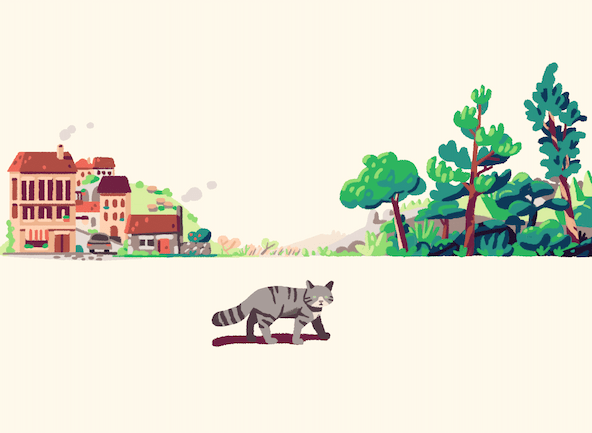
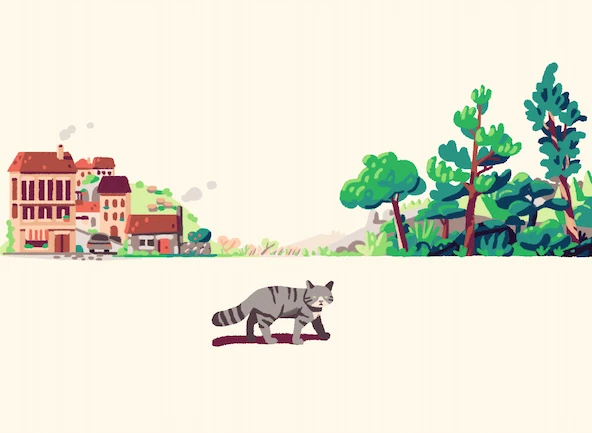
Adjusted responsive image on wildcat page with width descriptors

diff --git a/wildcat.html b/wildcat.html
@@ -4,29 +4,39 @@
     <meta charset="UTF-8">
     <meta name="viewport" content="width=device-width, initial-scale=1.0">
     <title>Wildcat illustration – Diogo Matias</title>
-    <meta name="author" content="Diogo Matias">
+    <meta name="description" content="An illustration of a wildcat for my brother’s thesis defense.">
     <meta name="color-scheme" content="dark light">
     <link rel="stylesheet" href="styles/main.css">
   </head>
   <body>
-    <article>
-      <h1>A wildcat for a thesis dissertation	</h1>
-      <p>
-      Illustrated on <time datetime="2020-12-07">7 December 2020</time></p>
-      <p>
-      My brother is a conservation biologist studying <a href="https://doi.org/10.1002/1438-390X.12088">endangered carnivore populations in Portugal</a>. For his thesis defense, he asked me to draw the possible habitat distribution of the <a href="https://en.wikipedia.org/wiki/European_wildcat">European wildcat</a>—one of his favourite felids.</p>
-      <img
-        src="images/ilustracao-gato_bravo-592.webp"
-        alt="A wildcat walking through a transition from urban to rural to forest"
-        width="592"
-        height="433"
-        srcset="images/ilustracao-gato_bravo-888.webp 2x,
-                images/ilustracao-gato_bravo-1775.webp 3x"
-                >
-      <p>
-      These cats look a lot like feral cats but are on average bigger and stouter, with longer fur and bushier tails. They also have distinct striped patterns. Because they can mate with domestic cats and have hybrid kitties, sightings or captures usually need genetic testing to distinguish them.</p>
-      <p>
-      Interbreeding, loss of habitat, and shootings, have made European wildcats harder to spot. I hope this illustration helps introduce more people to these furry fellows and some of the conservation efforts trying to protect them.</p>
-    </article>
+    <main>
+      <article>
+        <h1>
+        A wildcat for a thesis dissertation
+        </h1>
+        <p>
+        Illustrated on <time datetime="2020-12-07">7 December 2020</time></p>
+        <p>
+        My brother is a conservation biologist studying <a href="https://doi.org/10.1002/1438-390X.12088">endangered carnivore populations in Portugal</a>. For his thesis defense, he asked me to draw the possible habitat distribution of the <a href="https://en.wikipedia.org/wiki/European_wildcat">European wildcat</a>—one of his favourite felids.
+        </p>
+        <img
+          src="images/ilustracao-gato_bravo-888.jpg"
+          alt="A wildcat walking through a transition from urban to rural to forest"
+          width="888"
+          height="650"
+          srcset="images/ilustracao-gato_bravo-444.webp 444w,
+                  images/ilustracao-gato_bravo-592.webp 592w,
+                  images/ilustracao-gato_bravo-888.webp 888w,
+                  images/ilustracao-gato_bravo-1775.webp 1775w"
+          sizes="(max-width: 50em) 100vw, 60em"
+        >
+        <p>
+        These cats look a lot like feral cats but are on average bigger and stouter, with longer fur and bushier tails. They also have distinct striped patterns. Because they can mate with domestic cats and have hybrid kitties, sightings or captures usually need genetic testing to distinguish them.
+        </p>
+        <p>
+        Interbreeding, loss of habitat, and shootings, have made European wildcats harder to spot. I hope this illustration helps introduce more people to these furry fellows and some of the conservation efforts trying to protect them.
+        </p>
+      </article>
+    </main> 
   </body>
 </html>

diff --git a/index.html b/index.html
@@ -5,7 +5,6 @@
 		<meta charset="UTF-8">
 		<meta name="viewport" content="width=device-width, initial-scale=1.0">
 		<title>Home page of Diogo</title>
-		<meta name="author" content="Diogo Matias">
 		<meta name="description" content="A personal website about visual design and illustration.">
 		<meta name="color-scheme" content="dark light">
 		<link rel="stylesheet" href="styles/main.css">
@@ -29,13 +28,15 @@
 		<h2>What I like and what I do</h2>
 		<p>I am interested in digital archives, the indie web, visual design history, and accessibility.</p>
 	   <p>I design science communication materials for projects funded by the European Union.</p>
-		<img src="images/leksand-lake-800w.jpg" srcset="
+		<img
+			src="images/leksand-lake-800w.jpg"
+			alt="A person walking on a sandy lake shore during a cloudy day."
+			srcset="
 		  images/leksand-lake-400w.webp 400w,
 		  images/leksand-lake-800w.webp 800w,
 		  images/leksand-lake-1200w.webp 1200w"
-		sizes="(min-width: 760px) 704px, 100vw"
-		width="800" height="600"
-		alt="A person walking on a sandy lake shore during a cloudy day.">
+			sizes="(min-width: 760px) 704px, 100vw"
+			>
 		<h3>How to message me</h3>
 	    <p>You can reach me at diogo.fm.matias@gmail.com</p>
 		<footer role="contentinfo">
